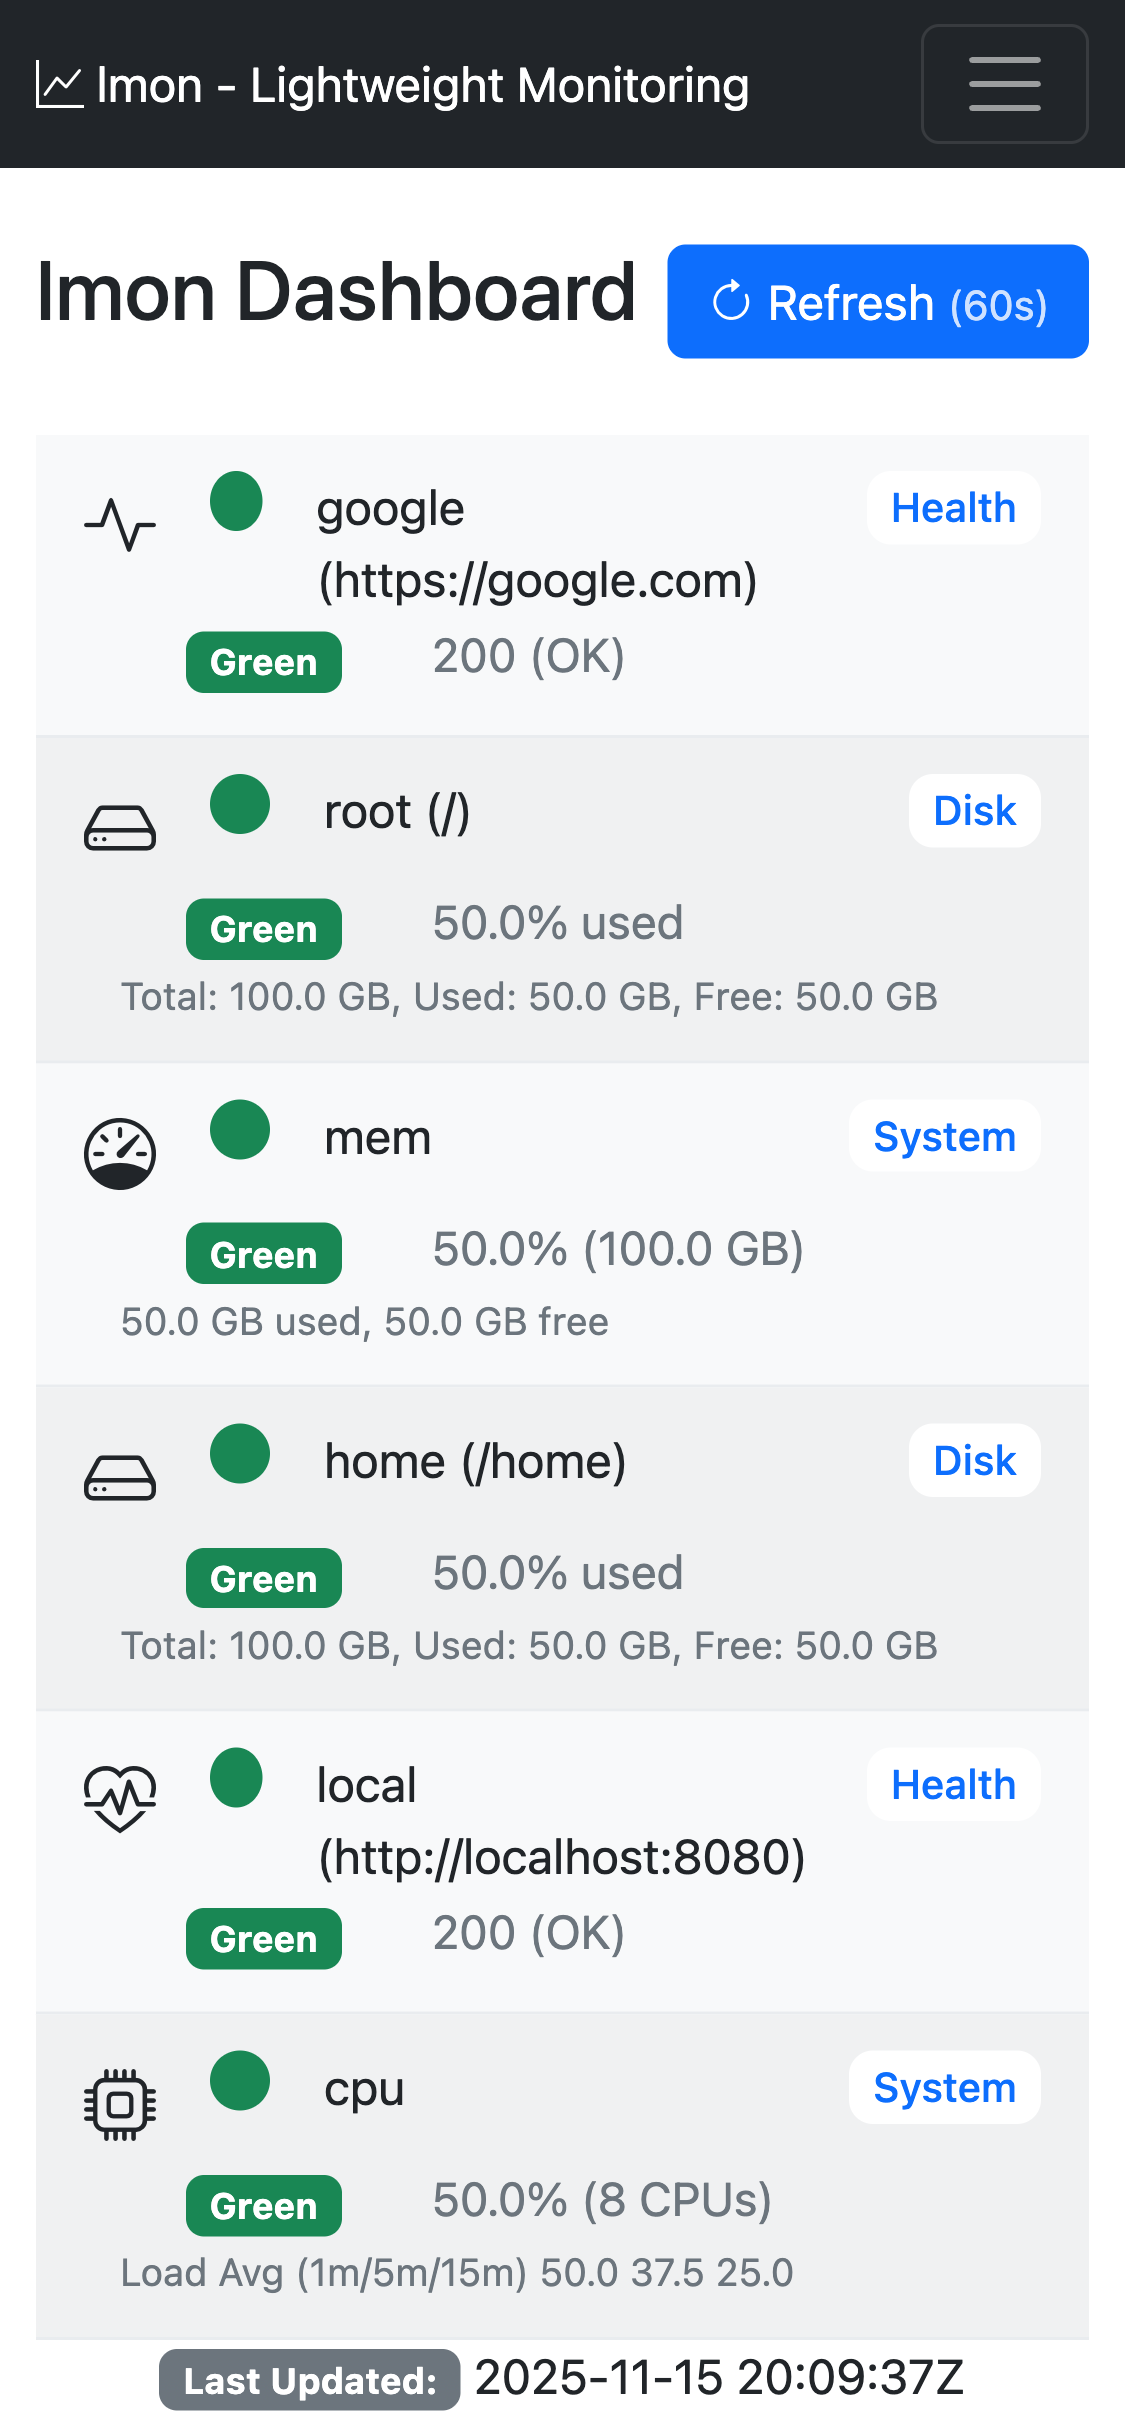
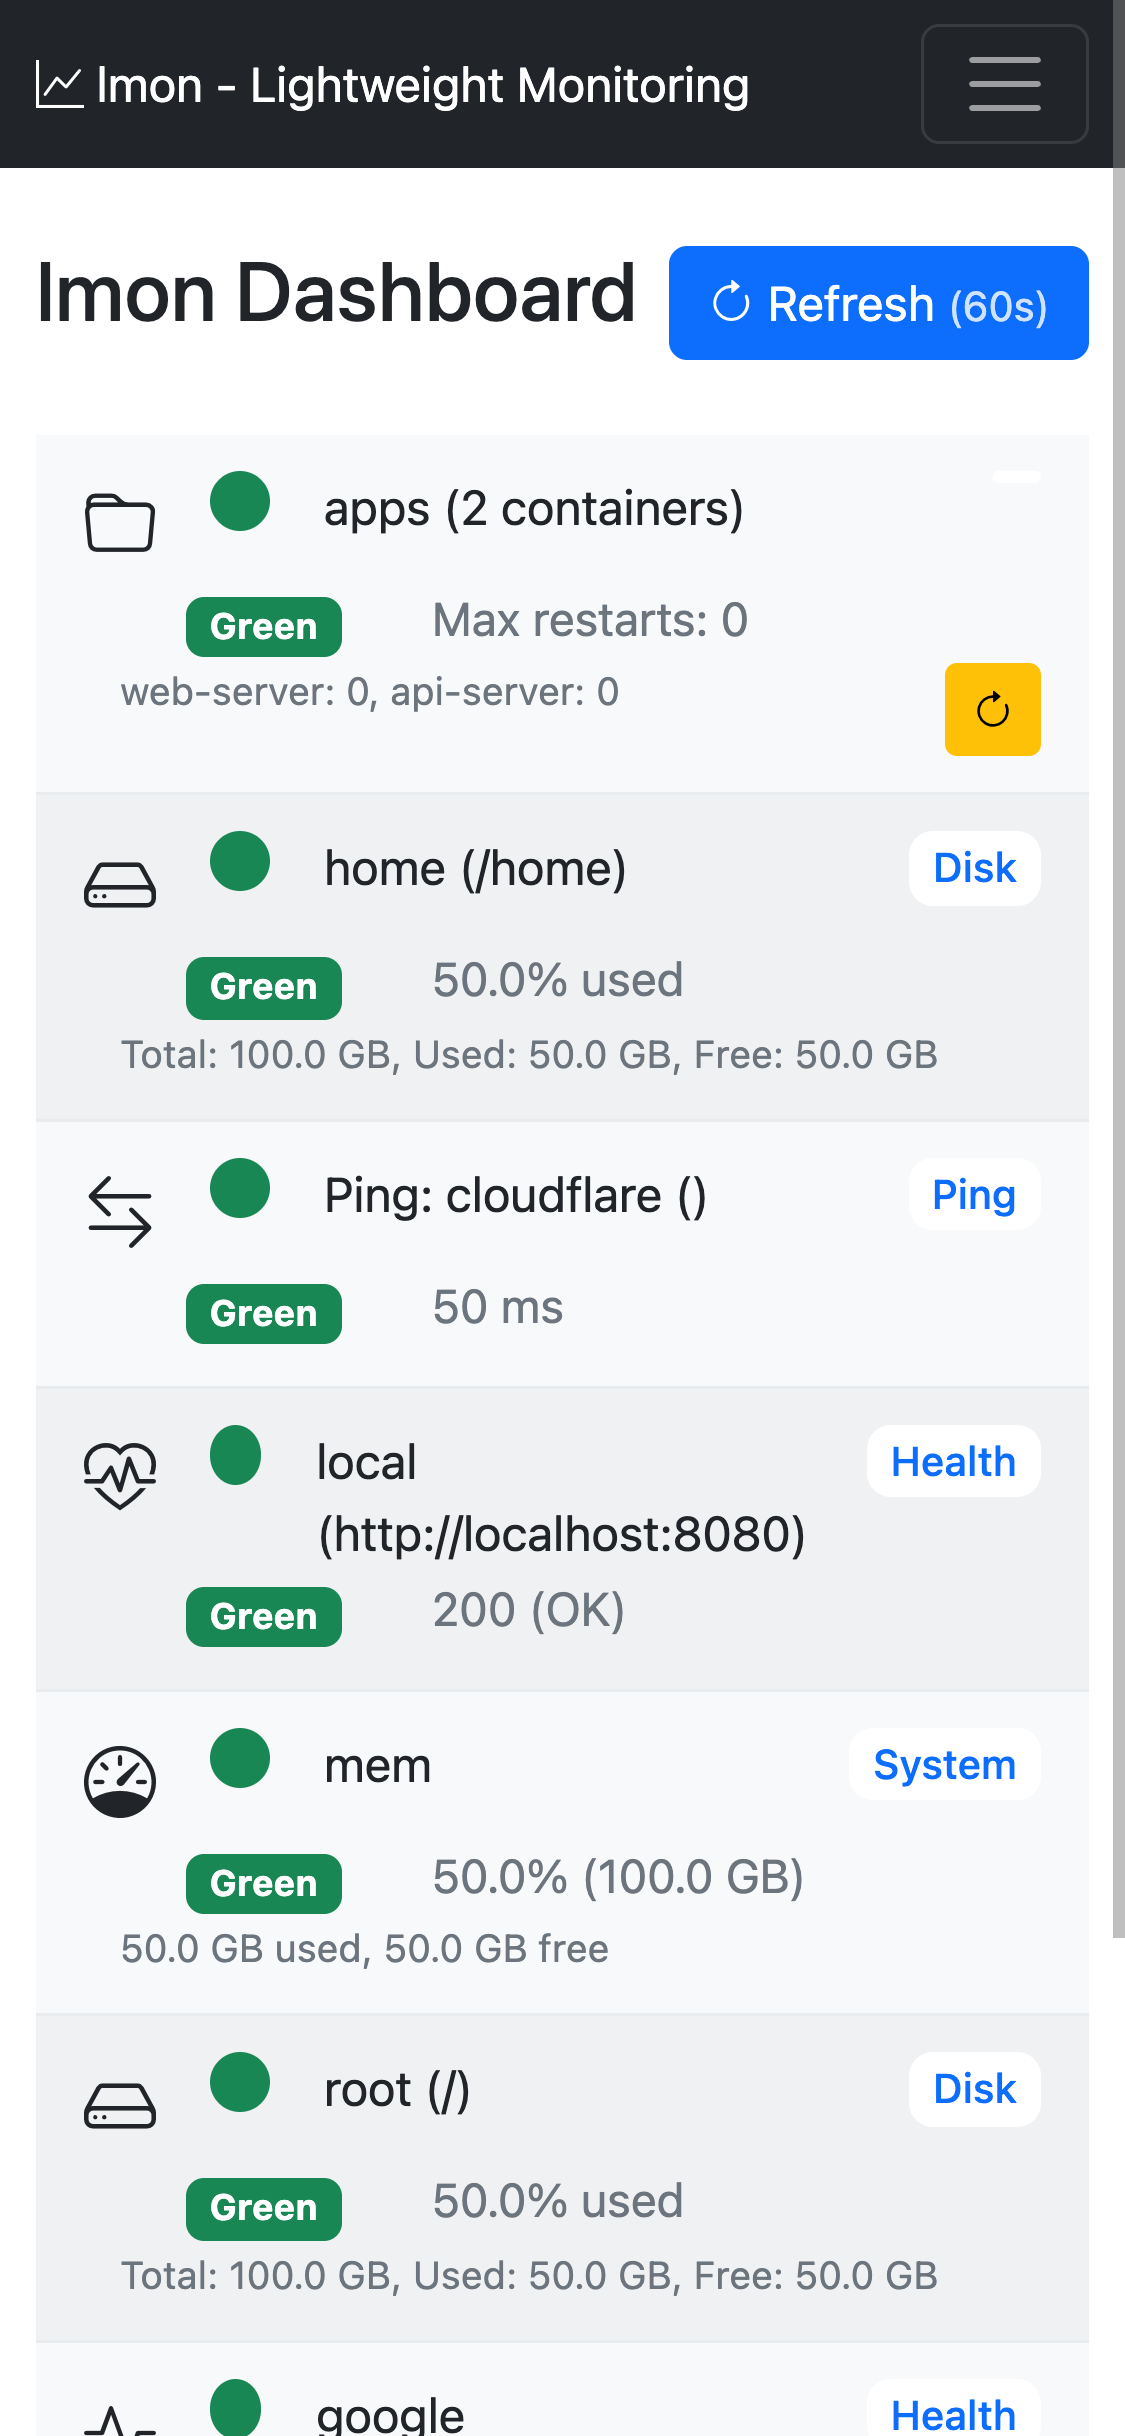
Feat/docker UI testing (#42)
* feat: Add Docker container monitoring support and UI updates

* feat: Add UI tests for Docker configuration management

* chore: Updated coverage badge.

* PR comments

* chore: Updated coverage badge.

---------

diff --git a/web/templates/index.html b/web/templates/index.html
@@ -39,8 +39,8 @@
                 </div>
             </div>
 
-            <div class="row mt-4">
-                <div class="col-12">
+            <div class="row">
+                <div class="col-md-6">
                     <div class="card">
                         <div class="card-header">Health Checks</div>
                         <div class="card-body" id="health-items">
@@ -48,9 +48,8 @@
                         </div>
                     </div>
                 </div>
-            </div>
-            <div class="row mt-4">
-                <div class="col-12">
+
+                <div class="col-md-6">
                     <div class="card">
                         <div class="card-header">Ping Monitors</div>
                         <div class="card-body" id="ping-items">
@@ -59,7 +58,20 @@
                     </div>
                 </div>
             </div>
+
+            <div class="row">
+                <div class="col-md-6">
+                    <div class="card">
+                        <div class="card-header">Docker Containers</div>
+                        <div class="card-body" id="docker-items">
+                            {{ template "itemList" .DockerItems }}
+                        </div>
+                    </div>
+                </div>
+            </div>
+
         </div>
+
 
         {{ template "footer" . }}
     </body>

diff --git a/uitest/main_test.go b/uitest/main_test.go
@@ -460,42 +460,27 @@ func TestAddPingViaConfigUIRod(t *testing.T) {
 			t.Logf("Error getting ping config items: %v", err)
 			return false
 		}
-		t.Logf("Found %d ping config items", len(items))
-		for i, item := range items {
-			nameSpan, err := item.Element(`.config-item-name`)
-			if err != nil {
-				t.Logf("Item %d: no name span found: %v", i, err)
-				continue
-			}
-			nameText, err := nameSpan.Text()
-			if err != nil {
-				t.Logf("Item %d: error getting name text: %v", i, err)
-				continue
-			}
-			addressSpan, err := item.Element(`.config-item-address`)
-			if err != nil {
-				t.Logf("Item %d: no address span found: %v", i, err)
-				continue
-			}
-			addressText, err := addressSpan.Text()
-			if err != nil {
-				t.Logf("Item %d: error getting address text: %v", i, err)
-				continue
-			}
-			t.Logf("Item %d: name='%s', address='%s'", i, nameText, addressText)
-			if nameText == "google" && addressText == "(8.8.8.8)" {
-				return true
-			}
-		}
-
-		// Also check if "No ping monitors configured" is shown
-		_, err = page.ElementR(`#ping-config-items`, "No ping monitors configured")
-		if err == nil {
-			t.Logf("Found 'No ping monitors configured' message")
-		}
-
-		return false
+		return len(items) > 0
 	}, 3*time.Second, 100*time.Millisecond, "wait for ping item in config list")
+
+	items, err := page.Elements(`#ping-config-items .config-item`)
+	assert.NoError(t, err, "get ping config items")
+	assert.Len(t, items, 1, "exactly one ping config item should be present")
+	item := items[0]
+	nameSpan, err := item.Element(`.config-item-name`)
+	assert.NoError(t, err, "get ping item name span")
+	nameText, err := nameSpan.Text()
+	assert.NoError(t, err, "get ping item name text")
+	addressSpan, err := item.Element(`.config-item-address`)
+	assert.NoError(t, err, "get ping item address span")
+	addressText, err := addressSpan.Text()
+	assert.NoError(t, err, "get ping item address text")
+	assert.Equal(t, "google", nameText, "Ping monitor name is shown")
+	assert.Equal(t, "(8.8.8.8)", addressText, "Ping monitor address is shown")
+
+	// Also check if "No ping monitors configured" is shown
+	_, err = page.Timeout(time.Millisecond*20).ElementR(`#ping-config-items`, "No ping monitors configured")
+	assert.Error(t, err, "No ping monitors configured message should be present")
 
 	// Navigate back to dashboard
 	el, err = page.Element(`a.nav-link[href="/"]`)
@@ -555,4 +540,135 @@ func TestAddPingViaConfigUIRod(t *testing.T) {
 	assert.Panics(t, func() {
 		page.Timeout(1 * time.Second).MustElement(`#ping-items .list-group-item[data-id="ping_google"]`)
 	}, "Ping monitor item 'google' should be gone from dashboard")
+}
+
+func TestAddDockerCheckViConfigUIRod(t *testing.T) {
+	ctx, cancel := context.WithCancel(t.Context())
+	defer cancel()
+
+	s, _ := web.StartTestServer(ctx, t, "")
+	s.Start(ctx)
+
+	browser := getBrowser(t)
+	defer closeBrowser(browser)
+	page, err := browser.Page(proto.TargetCreateTarget{URL: s.ServerUrl})
+	require.NoError(t, err, "open page")
+	defer closePage(page)
+
+	// Navigate to the config tab
+	el, err := page.Element(`a.nav-link[href="/config"]`)
+	requireNoErrorWithScreenshot(t, page, err, "find config link")
+	el.MustClick()
+
+	// Wait for the docker add form
+	_, err = page.Timeout(1 * time.Second).Element(`#add-docker-form`)
+	requireNoErrorWithScreenshot(t, page, err, "find docker add form")
+
+	// Fill the docker add form
+	name := "stack1"
+	containers := "web, api"
+
+	el, err = page.Element(`#docker-name`)
+	requireNoErrorWithScreenshot(t, page, err, "find docker name input")
+	err = el.Input(name)
+	requireNoErrorWithScreenshot(t, page, err, "input docker name")
+
+	el, err = page.Element(`#docker-containers`)
+	requireNoErrorWithScreenshot(t, page, err, "find docker containers input")
+	err = el.Input(containers)
+	requireNoErrorWithScreenshot(t, page, err, "input docker containers")
+
+	el, err = page.Element(`#docker-threshold`)
+	requireNoErrorWithScreenshot(t, page, err, "find docker threshold input")
+	el.MustSelectAllText().MustInput("10")
+
+	// Icon dropdown may be initialized dynamically; not required for submission
+	_, err = page.Timeout(300 * time.Millisecond).Element(`#docker-icon-dropdown`)
+	assert.NoError(t, err, "docker icon dropdown should be present")
+
+	// Submit the form
+	el, err = page.Element(`#add-docker-form button[type="submit"]`)
+	requireNoErrorWithScreenshot(t, page, err, "find docker submit button")
+	wait2 := page.WaitNavigation(proto.PageLifecycleEventNameLoad)
+	el.MustClick()
+	// Wait for the page to reload back to /config
+	wait2()
+
+	// Verify the docker config item appears
+	require.EventuallyWithT(t, func(t *assert.CollectT) {
+		items, err := page.Elements(`#docker-config-items .config-item`)
+		assert.NoError(t, err, "get docker config items")
+		assert.Len(t, items, 1, "exactly one docker config item should be present")
+	}, 3*time.Second, 100*time.Millisecond, "wait for docker item in config list")
+
+	items, _ := page.Elements(`#docker-config-items .config-item`)
+	item := items[0]
+	nameSpan, err := item.Element(`.config-item-name`)
+	assert.NoError(t, err, "get docker item name span")
+	nameText, err := nameSpan.Text()
+	assert.NoError(t, err, "get docker item name text")
+	contSpan, err := item.Element(`.config-item-containers`)
+	assert.NoError(t, err, "get docker item containers span")
+	contText, err := contSpan.Text()
+	assert.NoError(t, err, "get docker item containers text")
+	assert.Equal(t, name, nameText, "Docker item name is shown")
+	assert.Equal(t, "(web, api)", contText, "Docker item containers are shown")
+
+	// Navigate back to dashboard
+	el, err = page.Element(`a.nav-link[href="/"]`)
+	requireNoErrorWithScreenshot(t, page, err, "find dashboard link")
+	el.MustClick()
+
+	// Wait for docker card and item
+	_, err = page.Timeout(1 * time.Second).Element(`#docker-items`)
+	requireNoErrorWithScreenshot(t, page, err, "find docker items container")
+	_, err = page.Timeout(1 * time.Second).Element(`#docker-items .list-group-item[data-id="docker_stack1"]`)
+	requireNoErrorWithScreenshot(t, page, err, "find docker item in dashboard")
+
+	// Assert its presence and content
+	dockerItem, err := page.Element(`#docker-items .list-group-item[data-id="docker_stack1"]`)
+	requireNoErrorWithScreenshot(t, page, err, "get docker item element")
+	assert.NotNil(t, dockerItem, "Docker item 'stack1' is present in dashboard")
+	dockerText := dockerItem.MustText()
+	assert.Contains(t, dockerText, "stack1 (2 containers)", "Docker display name is shown")
+	assert.Regexp(t, `Max\s+restarts:\s*\d+`, dockerText, "Docker value is shown")
+	assert.Contains(t, dockerText, "web", "Docker details include container 'web'")
+	assert.Contains(t, dockerText, "api", "Docker details include container 'api'")
+
+	// --- MOBILE PAGE CHECKS ---
+	el, err = page.Element(`a.nav-link[href="/mobile"]`)
+	requireNoErrorWithScreenshot(t, page, err, "find mobile link")
+	el.MustClick()
+
+	page.Timeout(1 * time.Second).MustElement(`#mobile-items-list`)
+	dockerMobile := page.MustElement(`#mobile-items-list .mobile-list-item[data-id="docker_stack1"]`)
+	dockerMobileText := dockerMobile.MustText()
+	assert.Contains(t, dockerMobileText, "stack1 (2 containers)", "Docker display name is shown on mobile")
+	assert.Regexp(t, `Max\s+restarts:\s*\d+`, dockerMobileText, "Docker value is shown on mobile")
+
+	// Go back to config and delete the docker monitor
+	el, err = page.Element(`a.nav-link[href="/config"]`)
+	requireNoErrorWithScreenshot(t, page, err, "find config link (delete)")
+	el.MustClick()
+
+	_, err = page.Timeout(1 * time.Second).Element(`#docker-config-items`)
+	requireNoErrorWithScreenshot(t, page, err, "find docker config items")
+	delBtn, err := page.Timeout(1 * time.Second).Element(`button.delete-docker-btn[data-id="stack1"]`)
+	requireNoErrorWithScreenshot(t, page, err, "find docker delete button")
+	wait, handle := page.HandleDialog()
+	go delBtn.MustClick()
+	_ = wait()
+	_ = handle(&proto.PageHandleJavaScriptDialog{Accept: true})
+
+	// Wait for docker monitor to be removed from config list
+	page.Timeout(1*time.Second).MustElementR(`#docker-config-items`, "No Docker monitors configured")
+
+	// Go back to dashboard and verify docker monitor is gone
+	el, err = page.Element(`a.nav-link[href="/"]`)
+	requireNoErrorWithScreenshot(t, page, err, "find dashboard link (final)")
+	el.MustClick()
+	page.Timeout(1 * time.Second).MustElement(`#docker-items`)
+	assert.Panics(t, func() {
+		page.Timeout(1 * time.Second).MustElement(`#docker-items .list-group-item[data-id="docker_stack1"]`)
+	}, "Docker item 'stack1' should be gone from dashboard")
 }

diff --git a/web/server.go b/web/server.go
@@ -23,6 +23,7 @@ import (
 	"lmon/config"
 	"lmon/monitors"
 	"lmon/monitors/disk"
+	"lmon/monitors/docker"
 	"lmon/monitors/healthcheck"
 	"lmon/monitors/mapper"
 	"lmon/monitors/ping"
@@ -365,6 +366,7 @@ func (s *Server) handleTemplate() func(w http.ResponseWriter, r *http.Request) {
 		healthItems := make([]UIResult, 0, len(items))
 		mobileItems := make([]UIResult, 0, len(items))
 		pingItems := make([]UIResult, 0, len(items))
+		dockerItems := make([]UIResult, 0, len(items))
 		for _, item := range items {
 			switch item.Group {
 			case system.Group:
@@ -373,6 +375,8 @@ func (s *Server) handleTemplate() func(w http.ResponseWriter, r *http.Request) {
 				diskItems = append(diskItems, item)
 			case healthcheck.Group:
 				healthItems = append(healthItems, item)
+			case docker.Group:
+				dockerItems = append(dockerItems, item)
 			case "ping":
 				pingItems = append(pingItems, item)
 			}
@@ -389,6 +393,8 @@ func (s *Server) handleTemplate() func(w http.ResponseWriter, r *http.Request) {
 		slices.SortFunc(diskItems, displayNameSorter)
 		// sort healthItems by display Name
 		slices.SortFunc(healthItems, displayNameSorter)
+		// sort dockerItems by display Name
+		slices.SortFunc(dockerItems, displayNameSorter)
 		// sort pingItems by display Name
 		slices.SortFunc(pingItems, displayNameSorter)
 
@@ -410,6 +416,7 @@ func (s *Server) handleTemplate() func(w http.ResponseWriter, r *http.Request) {
 			"SystemItems":         systemItems,
 			"DiskItems":           diskItems,
 			"HealthItems":         healthItems,
+			"DockerItems":         dockerItems,
 			"PingItems":           pingItems,
 			"MobileItems":         mobileItems,
 			"ActivePage":          activeTemplate,

diff --git a/web/mock.go b/web/mock.go
@@ -6,6 +6,7 @@ import (
 	"go.uber.org/atomic"
 
 	"lmon/monitors/disk"
+	"lmon/monitors/docker"
 	"lmon/monitors/healthcheck"
 	"lmon/monitors/mapper"
 	"lmon/monitors/ping"
@@ -32,6 +33,7 @@ func NewMockImplementations(hook *MockWebhookHandler) *mapper.Implementations {
 		Cpu:     system.NewMockCpuProvider(50),                         // percent usage
 		Mem:     system.NewMockMemProvider(50),                         // percent usage
 		Ping:    ping.NewMockPingProvider(50, nil),                     // default mock ping provider
+		Docker:  docker.NewMockDockerProvider(),
 		Webhook: hook.webhookCallback,
 	}
 }

diff --git a/monitors/docker/mock.go b/monitors/docker/mock.go
@@ -15,6 +15,10 @@ type MockDockerProvider struct {
 	CloseError        error
 }
 
+func NewMockDockerProvider() *MockDockerProvider {
+	return &MockDockerProvider{}
+}
+
 // GetRestartCounts returns mock restart counts
 func (m *MockDockerProvider) GetRestartCounts(ctx context.Context, containerNames []string) (map[string]int, error) {
 	if m.GetCountsError != nil {

diff --git a/README.md b/README.md
@@ -1,7 +1,7 @@
 # lmon - Lightweight Monitoring Service
 ![go](https://github.com/pilotso11/lmon/actions/workflows/go.yml/badge.svg)
 ![docker](https://github.com/pilotso11/lmon/actions/workflows/docker.yml/badge.svg)
-![Coverage](https://img.shields.io/badge/Coverage-85.1%25-brightgreen)
+![Coverage](https://img.shields.io/badge/Coverage-87.0%25-brightgreen)
 
 A lightweight, extensible monitoring service written in Go. lmon monitors system resources, disk usage, and application health, providing a modern web UI and flexible configuration.
 
